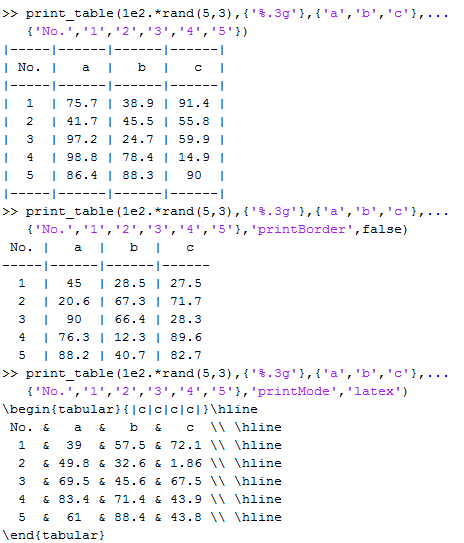
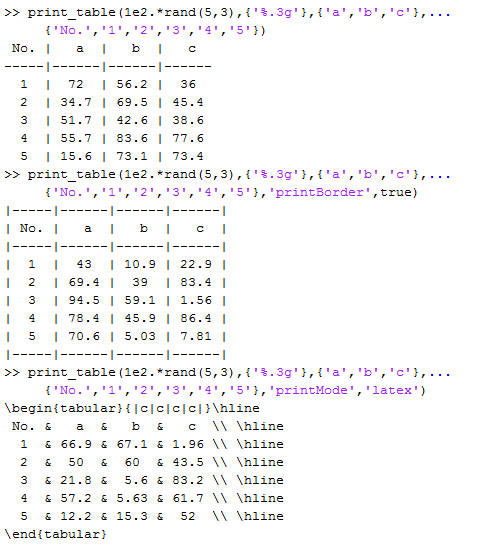
Updated with aux. functions

Changed region(s): [[0.0, 0.0, 0.9353, 1.0], [0.4526, 0.1473, 0.4828, 0.1768]]

diff --git a/print_table.m b/print_table.m
@@ -52,7 +52,7 @@ function varargout = print_table(dataCell, varargin)
 %        included in the aligned text, e.g. 'lText   ' -> ' lText  ', if false
 %        and numSpaceColPad = 1 and textAlignment = 'l'.
 %     printLatexFull = 1   - add tabular enviroment to latex table format
-%     printBorder = 1      - print simple border around the table (in text mode)   
+%     printBorder    = 0   - print simple border around the table (in text mode)   
 %       borderRowStr = '-' - border type string, should be single charachter
 %
 % Output:
@@ -64,9 +64,43 @@ function varargout = print_table(dataCell, varargin)
 %     mode. Generates a table with aligned columns by inserting spaces.
 %     Can also print the transposed version of the supplied table data.
 %     Provides a variety of options such as adding/removing extra space padding
-%     or changing the separation characters.!
+%     or changing the separation characters.
 %
-% See also fprintf, cellstr2str, rmexpzeros, inputParser
+%     Includes three additional utility functions:
+%        repmat_as_needed  - repmat data into a specified size
+%        rmexpzeroes       - removes unecessary zeroes from exponent string
+%        cellstr2str       - concatenates cellstr with some char between parts
+%
+% Example usage:
+%  print_table(1e2.*rand(5,3),{'%.3g'},{'a','b','c'},{'No.','1','2','3','4','5'})
+%  No. |   a  |   b  |   c  
+% -----|------|------|------
+%   1  |  45  | 28.5 | 27.5 
+%   2  | 20.6 | 67.3 | 71.7 
+%   3  |  90  | 66.4 | 28.3 
+%   4  | 76.3 | 12.3 | 89.6 
+%   5  | 88.2 | 40.7 | 82.7 
+%  print_table(1e2.*rand(5,3),{'%.3g'},{'a','b','c'},{'No.','1','2','3','4','5'},'printBorder',1)
+% |-----|------|------|------|
+% | No. |   a  |   b  |   c  |
+% |-----|------|------|------|
+% |  1  |  43  | 10.9 | 22.9 |
+% |  2  | 69.4 |  39  | 83.4 |
+% |  3  | 94.5 | 59.1 | 1.56 |
+% |  4  | 78.4 | 45.9 | 86.4 |
+% |  5  | 70.6 | 5.03 | 7.81 |
+% |-----|------|------|------|
+% print_table(1e2.*rand(5,3),{'%.3g'},{'a','b','c'},{'No.','1','2','3','4','5'},'printMode','latex')
+% \begin{tabular}{|c|c|c|c|}\hline
+%  No. &   a  &   b  &   c  \\ \hline 
+%   1  & 66.9 & 67.1 & 1.96 \\ \hline 
+%   2  &  50  &  60  & 43.5 \\ \hline 
+%   3  & 21.8 &  5.6 & 83.2 \\ \hline 
+%   4  & 57.2 & 5.63 & 61.7 \\ \hline 
+%   5  & 12.2 & 15.3 &  52  \\ \hline 
+% \end{tabular}
+%
+% See also fprintf, inputParser, repmat_as_needed, rmexpzeros, cellstr2str
 
 %   Created by: Johan Winges
 %   $Revision: 1.0$  $Date: 2014/10/06 14:00:00$
@@ -111,7 +145,7 @@ addParameter(inpPar,'numSpaceColPad',1,...
    @(x) validateattributes(x,{'numeric','logical'},...
         {'nonempty','integer','positive'}))
 addParameter(inpPar,'printLatexFull',true,@islogical);
-addParameter(inpPar,'printBorder',true,...
+addParameter(inpPar,'printBorder',0,...
    @(x) validateattributes(x,{'numeric','logical'},...
         {'nonempty','scalar','binary'}))
 addParameter(inpPar,'borderRowStr','-',@ischar);
@@ -353,6 +387,29 @@ else
    fprintf(1,tableStr);
 end
 
+function repData = repmat_as_needed(dataPart, repDataSize)
+%% REPMAT_AS_NEEDED Repeat data in dataPart to match repDataSize if possible
+% Syntax:
+%     repData = REPMAT_AS_NEEDED(dataPart, repDataSize)
+%     
+% Comment:
+%     Repeats data up repDataSize unless it is already of the correct size.
+
+%   Created by: Johan Winges
+%   $Revision: 1.0$  $Date: 2014/10/07 9:00:00$
+
+% Check size difference between dataPart and repDataSize, repeat up to size:
+dataSize    = size(dataPart);
+dataSizeExt = ones(1,length(repDataSize));
+dataSizeExt(1:length(dataSize)) = dataSize;
+numRepDim   = repDataSize./dataSizeExt;
+if all( (abs(round(numRepDim)-numRepDim)) <= eps('double') )
+   repData     = repmat(dataPart, round(numRepDim));
+else
+   error('repmat_as_needed:invalidInput',...
+      'The supplied dataPart and repDataSize have incompatible sizes')
+end
+
 function str = rmexpzeros(str, printMode)
 %% RMEXPZEROS Remove extra zeroes after exponent string (i.e. 1.1e+01 remove 0)
 %
@@ -407,5 +464,45 @@ elseif strcmp(printMode,'latex')
             '{\\times}10^{-' str(endIndex+1:end) '}$'];
       end
    end
-   
 end
+
+function str = cellstr2str(cellstr, separationStr, numericConversionStr)
+%% CELLSTR2STR Convert a cellstring to a single string with a separation string
+%
+% Syntax:
+%     str = cellstr2str(cellstr, separationStr)
+%     str = cellstr2str(numericArray, separationStr, numericConversionStr)
+%
+% Comment:
+%     Utility function for writing a cellstr as a single string.
+%     Can also convert a numeric array to a string.
+%     Main purpose is add separation charachter between the parts of the
+%     cellstr.
+
+%   Created by: Johan Winges
+%   $Revision: 1.0$  $Date: 2012/?/? 00:00:00$
+%   $Revision: 2.0$  $Date: 2014/10/06 13:00:00$
+%     Complete overhaul of function
+
+% Default separationStr
+if (nargin <= 1)
+   separationStr = ' ';
+end
+% Default numericConversionStr
+if nargin <= 2
+   numericConversionStr = '%g';
+end
+
+% Numeric input array:
+if ~iscell(cellstr)
+   % Convert numeric array to cellstr:
+   cellstr = cellfun(@(innum) num2str(innum, numericConversionStr),...
+      num2cell(cellstr),'un',0);
+end
+
+% Concatenate into output:
+cellstr        = cellstr(:).';
+len_cs         = length(cellstr);
+cellsty        = cat(2, repmat( { separationStr }, [1, len_cs-1]), {''});
+cellstr_merge  = cat(1, cellstr, cellsty );
+str            = cat(2, cellstr_merge{:} ) ;
